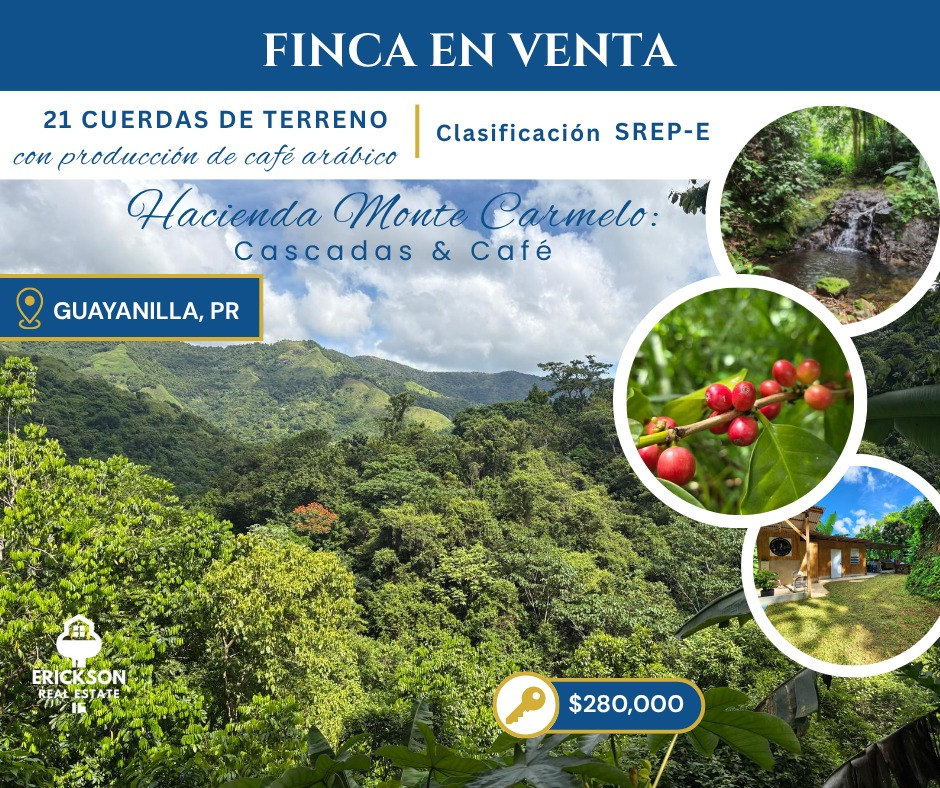
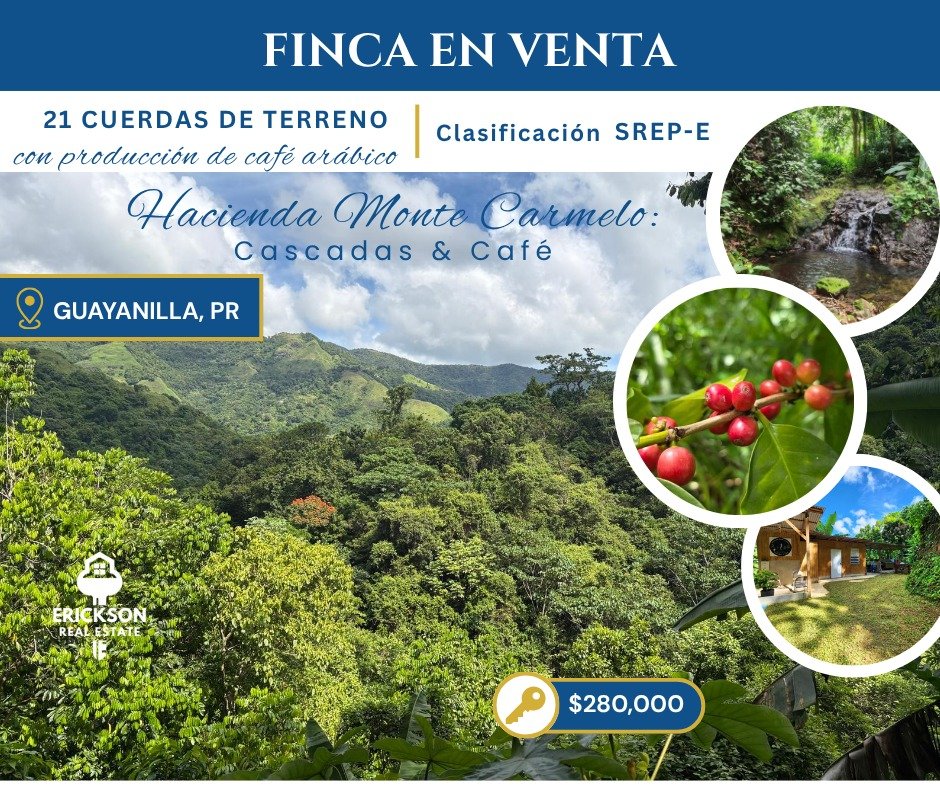
Correct Hacienda showing artwork and options

diff --git a/e2e/hacienda-monte-carmelo-showing.spec.ts b/e2e/hacienda-monte-carmelo-showing.spec.ts
@@ -26,33 +26,42 @@ test("registration page renders the complete artwork and approved form", async (
   await expect(page.getByLabel("Correo electrónico")).toBeVisible();
   await expect(page.getByText("política de privacidad")).toHaveAttribute("href", "/privacidad");
   await expect(page.getByRole("button", { name: "Confirmar y enviar información" })).toBeVisible();
+  await expect(page.locator('input[name="purchaseMethod"]')).toHaveCount(3);
+  await expect(page.locator('input[name="purchaseMethod"][value="Estoy evaluando mis opciones."]')).toHaveCount(0);
+  for (const option of await page.locator('input[type="radio"], input[type="checkbox"][name="interests"]').evaluateAll((inputs) =>
+    inputs.map((input) => (input as HTMLInputElement).value)
+  )) {
+    expect(option.endsWith(".")).toBe(false);
+  }
 });
 
 test("conditional questions show, require answers, and clear stale values", async ({ page }) => {
   await page.goto(route);
 
-  await page.getByLabel("Mediante financiamiento.").check();
+  await page.getByLabel("Mediante financiamiento").check();
   const financing = page.locator('fieldset:has(input[name="financingStatus"])');
   await expect(financing).toBeVisible();
-  await page.getByLabel("Estoy en proceso con una institución financiera.").check();
-  await page.getByLabel("Compra en efectivo (cash).").check();
+  await expect(page.locator('input[name="financingStatus"]')).toHaveCount(3);
+  await expect(page.getByLabel("No aplica", { exact: true })).toHaveCount(0);
+  await page.getByLabel("Estoy en proceso con una institución financiera").check();
+  await page.getByLabel("Compra en efectivo (cash)").check();
   await expect(financing).toHaveCount(0);
 
-  await page.locator('input[name="worksWithRealtor"][value="Sí."]').check();
+  await page.locator('input[name="worksWithRealtor"][value="Sí"]').check();
   const realtorName = page.getByLabel("Nombre completo del corredor o Realtor®");
   await realtorName.fill("Corredor Ejemplo");
   await page.getByLabel("Número de teléfono del corredor o Realtor®").fill("787-555-1111");
-  await page.locator('input[name="worksWithRealtor"][value="No."]').check();
+  await page.locator('input[name="worksWithRealtor"][value="No"]').check();
   await expect(realtorName).toHaveCount(0);
-  await page.locator('input[name="worksWithRealtor"][value="Sí."]').check();
+  await page.locator('input[name="worksWithRealtor"][value="Sí"]').check();
   await expect(page.getByLabel("Nombre completo del corredor o Realtor®")).toHaveValue("");
 
-  await page.getByLabel("Otro interés.").check();
+  await page.getByRole("checkbox", { name: "Otro interés", exact: true }).check();
   const other = page.getByLabel("Cuéntanos sobre ese otro interés (opcional)");
   await other.fill("Conservación");
-  await page.getByLabel("Otro interés.").uncheck();
+  await page.getByRole("checkbox", { name: "Otro interés", exact: true }).uncheck();
   await expect(other).toHaveCount(0);
-  await page.getByLabel("Otro interés.").check();
+  await page.getByRole("checkbox", { name: "Otro interés", exact: true }).check();
   await expect(page.getByLabel("Cuéntanos sobre ese otro interés (opcional)")).toHaveValue("");
 });
 
@@ -68,9 +77,9 @@ test("form preserves values after recoverable delivery errors", async ({ page })
   await page.getByLabel("Nombre completo").fill("María Rivera");
   await page.locator("#phone").fill("787-555-1234");
   await page.getByLabel("Correo electrónico").fill("maria@example.com");
-  await page.getByLabel("Sí, asistiré.").check();
-  await page.getByLabel("Compra en efectivo (cash).").check();
-  await page.locator('input[name="worksWithRealtor"][value="No."]').check();
+  await page.getByLabel("Sí, asistiré").check();
+  await page.getByLabel("Compra en efectivo (cash)").check();
+  await page.locator('input[name="worksWithRealtor"][value="No"]').check();
   await page.getByLabel(/Confirmo que leí este aviso/).check();
   await page.getByRole("button", { name: "Confirmar y enviar información" }).click();
 
@@ -89,9 +98,9 @@ test("form shows only the approved success language after acceptance", async ({ 
   await page.getByLabel("Nombre completo").fill("María Rivera");
   await page.locator("#phone").fill("787-555-1234");
   await page.getByLabel("Correo electrónico").fill("maria@example.com");
-  await page.getByLabel("Todavía no estoy seguro/a.").check();
-  await page.getByLabel("Estoy evaluando mis opciones.").check();
-  await page.locator('input[name="worksWithRealtor"][value="No."]').check();
+  await page.getByLabel("Todavía no estoy seguro/a").check();
+  await page.getByLabel("Dependerá de la negociación y las condiciones de compra").check();
+  await page.locator('input[name="worksWithRealtor"][value="No"]').check();
   await page.getByLabel(/Confirmo que leí este aviso/).check();
   const button = page.getByRole("button", { name: "Confirmar y enviar información" });
   await button.dblclick();

diff --git a/lib/hacienda-monte-carmelo-showing.ts b/lib/hacienda-monte-carmelo-showing.ts
@@ -6,34 +6,32 @@ export const HACIENDA_SHOWING_CUTOFF_ISO = "2026-10-25T14:00:00.000Z";
 export const HACIENDA_SHOWING_MAX_BODY_BYTES = 24_000;
 
 export const ATTENDANCE_OPTIONS = [
-  "Sí, asistiré.",
-  "No podré asistir, pero me interesa la propiedad.",
-  "Todavía no estoy seguro/a.",
+  "Sí, asistiré",
+  "No podré asistir, pero me interesa la propiedad",
+  "Todavía no estoy seguro/a",
 ] as const;
 
 export const PURCHASE_METHOD_OPTIONS = [
-  "Compra en efectivo (cash).",
-  "Mediante financiamiento.",
-  "Dependerá de la negociación y las condiciones de compra.",
-  "Estoy evaluando mis opciones.",
+  "Compra en efectivo (cash)",
+  "Mediante financiamiento",
+  "Dependerá de la negociación y las condiciones de compra",
 ] as const;
 
 export const FINANCING_STATUS_OPTIONS = [
-  "Tengo carta de precualificación o preaprobación.",
-  "Estoy en proceso con una institución financiera.",
-  "Todavía no he comenzado el proceso.",
-  "No aplica.",
+  "Tengo carta de precualificación",
+  "Estoy en proceso con una institución financiera",
+  "Todavía no he comenzado el proceso",
 ] as const;
 
 export const PROPERTY_INTEREST_OPTIONS = [
-  "Proyecto agrícola o cultivo de café.",
-  "Proyecto ecoturístico o recreativo.",
-  "Inversión.",
-  "Uso personal o familiar.",
-  "Otro interés.",
+  "Proyecto agrícola o cultivo de café",
+  "Proyecto ecoturístico o recreativo",
+  "Inversión",
+  "Uso personal o familiar",
+  "Otro interés",
 ] as const;
 
-export const REALTOR_OPTIONS = ["Sí.", "No."] as const;
+export const REALTOR_OPTIONS = ["Sí", "No"] as const;
 
 type Attendance = (typeof ATTENDANCE_OPTIONS)[number];
 type PurchaseMethod = (typeof PURCHASE_METHOD_OPTIONS)[number];
@@ -111,7 +109,7 @@ export function validateHaciendaShowingPayload(
 
   const rawFinancingStatus = cleanText(body.financingStatus, 120);
   let financingStatus: FinancingStatus | null = null;
-  if (purchaseMethod === "Mediante financiamiento.") {
+  if (purchaseMethod === "Mediante financiamiento") {
     if (!includes(FINANCING_STATUS_OPTIONS, rawFinancingStatus)) {
       invalid("Selecciona tu situación de financiamiento.", "invalid_financing_status");
     }
@@ -132,7 +130,7 @@ export function validateHaciendaShowingPayload(
   }
 
   const rawOtherInterest = cleanText(body.otherInterest, 160);
-  const selectedOther = interests.includes("Otro interés.");
+  const selectedOther = interests.includes("Otro interés");
   if (!selectedOther && rawOtherInterest) {
     invalid("La explicación de otro interés no aplica.", "unexpected_other_interest");
   }
@@ -147,7 +145,7 @@ export function validateHaciendaShowingPayload(
   const rawRealtorPhone = cleanText(body.realtorPhone, 40);
   let realtorName: string | null = null;
   let realtorPhone: string | null = null;
-  if (worksWithRealtor === "Sí.") {
+  if (worksWithRealtor === "Sí") {
     if (!rawRealtorName || !hasMeaningfulName(rawRealtorName)) {
       invalid("Ingresa el nombre completo del corredor o Realtor®.", "invalid_realtor_name");
     }

diff --git a/components/HaciendaMonteCarmeloShowingForm.tsx b/components/HaciendaMonteCarmeloShowingForm.tsx
@@ -50,18 +50,18 @@ export default function HaciendaMonteCarmeloShowingForm({ initiallyClosed }: Pro
     );
   }
 
-  const financingRequired = purchaseMethod === "Mediante financiamiento.";
-  const otherSelected = interests.includes("Otro interés.");
-  const realtorRequired = worksWithRealtor === "Sí.";
+  const financingRequired = purchaseMethod === "Mediante financiamiento";
+  const otherSelected = interests.includes("Otro interés");
+  const realtorRequired = worksWithRealtor === "Sí";
 
   function changePurchaseMethod(value: string) {
     setPurchaseMethod(value);
-    if (value !== "Mediante financiamiento.") setFinancingStatus("");
+    if (value !== "Mediante financiamiento") setFinancingStatus("");
   }
 
   function changeRealtor(value: string) {
     setWorksWithRealtor(value);
-    if (value !== "Sí.") {
+    if (value !== "Sí") {
       setRealtorName("");
       setRealtorPhone("");
     }
@@ -71,7 +71,7 @@ export default function HaciendaMonteCarmeloShowingForm({ initiallyClosed }: Pro
     setInterests((current) =>
       checked ? [...current, value] : current.filter((item) => item !== value)
     );
-    if (value === "Otro interés." && !checked) setOtherInterest("");
+    if (value === "Otro interés" && !checked) setOtherInterest("");
   }
 
   async function handleSubmit(event: React.FormEvent<HTMLFormElement>) {
